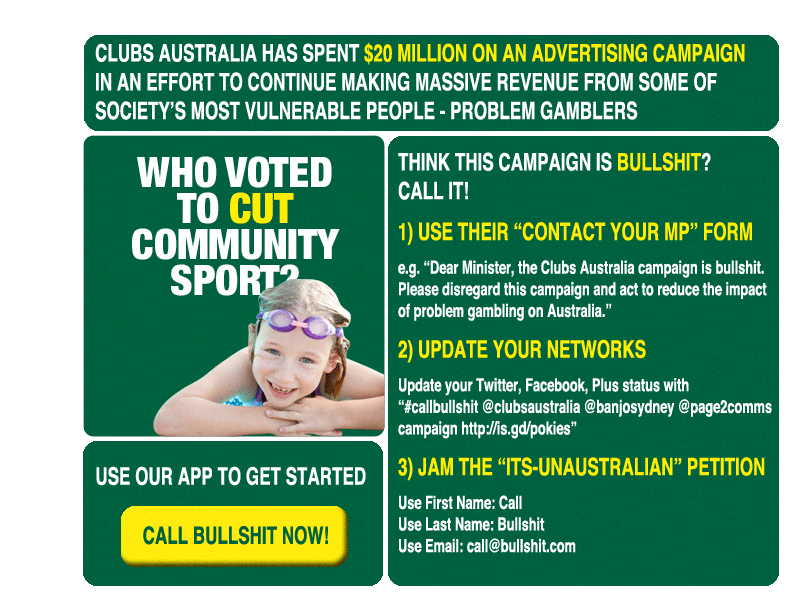
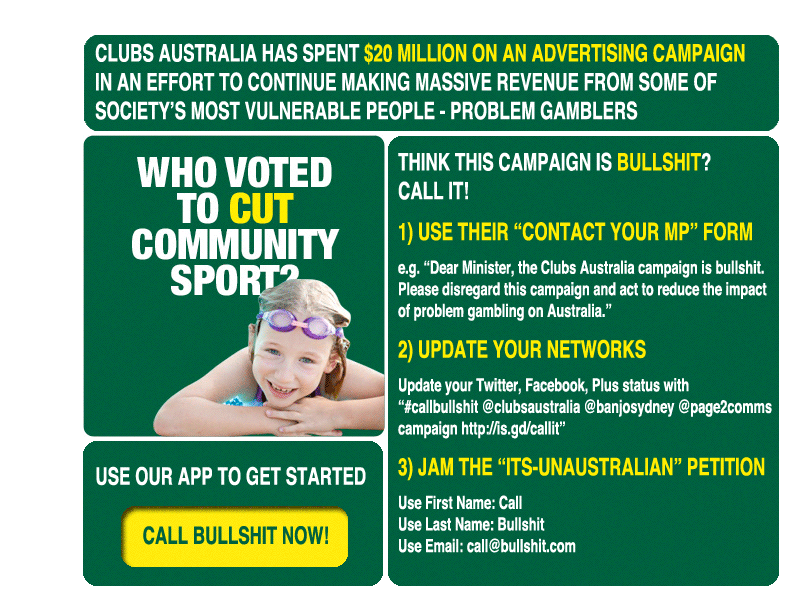
campaign_url local var used, expect in networks.html

Changed region(s): [[0.1562, 0.84, 0.4375, 0.96], [0.6562, 0.69, 0.7188, 0.75], [0.125, 0.87, 0.1562, 0.93]]

diff --git a/app.js b/app.js
@@ -26,6 +26,10 @@ app.configure('production', function(){
   app.use(express.errorHandler()); 
 });
 
+// CMS
+
+var campaign_url = "http://is.gd/callit";
+
 // Routes
 
 app.get('/', function(req, res){
@@ -47,7 +51,7 @@ app.get('/auto', function(req, res){
 app.get('/auto2', function(req, res){
   res.render('auto', {
     title: 'Update your networks',
-	layout: 'frameset-networks'
+	layout: 'frameset-networks',
   });
 });
 app.get('/auto3', function(req, res){
@@ -65,6 +69,9 @@ app.get('/step1', function(req, res){
 app.get('/step2', function(req, res){
   res.render('step2', {
     title: 'Update your Networks',
+	locals: {
+		campaign_url : campaign_url
+	}
   });
 });
 app.get('/step3', function(req, res){
